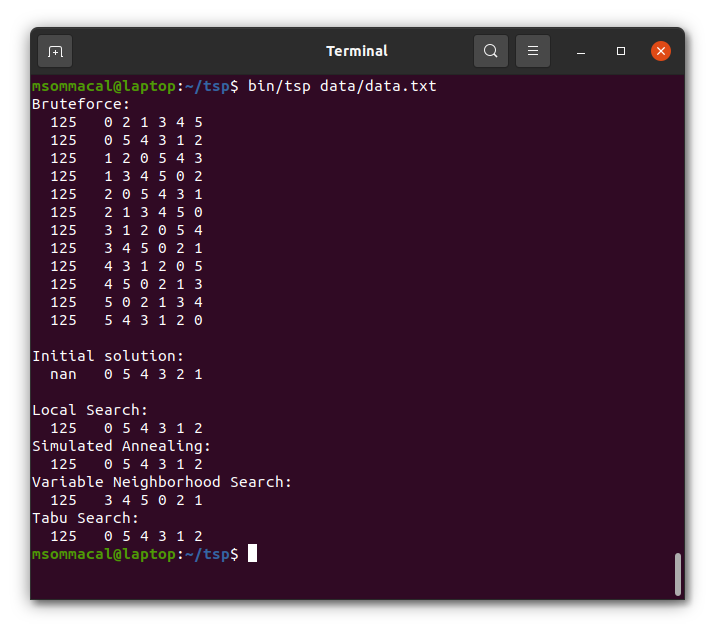
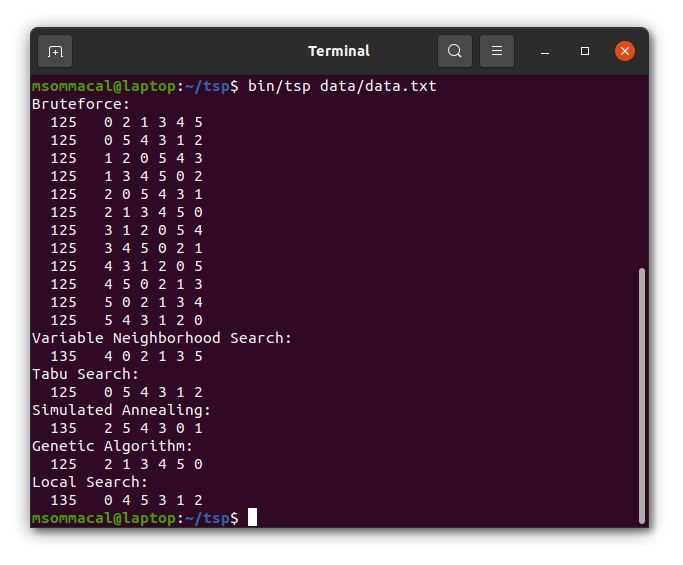
Add arguments for executable

Changed region(s): [[0.0307, 0.0301, 0.9839, 0.9628]]

diff --git a/src/main.cpp b/src/main.cpp
@@ -1,4 +1,5 @@
 #include <algorithm>
+#include <cstring>
 #include <iostream>
 #include <random>
 #include <vector>
@@ -14,52 +15,73 @@ using namespace std;
 
 int main(int argc, char** argv) {
     if (argc == 1) {
-        cerr << "Error: file argument is missing." << endl;
+        cerr << "Error: arguments are missing." << endl;
         exit(1);
     }
 
-    // instantiate a problem
-    Problem p(argv[1]);
-
-    // Bruteforce
-    cout << "Bruteforce:" << endl;
-    vector<Solution> x_optim = Bruteforce().run(p);
-    for (int i=0;i<x_optim.size();i++) {
-        cout << "  ";
-        x_optim.at(i).print();
+    int i = 1;
+    string filename = "";
+    while (i<argc && filename == "") {
+        if (argv[i][0] != '-') {
+            filename = argv[i];
+        }
+        i++;
     }
-    cout << endl;
+
+    if (filename == "") {
+        cerr << "Error: file argument is missing." << endl;
+        exit(2);
+    }
+
+    Problem p(filename);
 
     // generate a random solution
-    cout << "Initial solution:" << endl << "  ";
     Solution x(p.getSize());
-    x.print();
-    cout << endl;
 
-    // Local Search
-    cout << "Local Search:" << endl << "  ";
-    Solution y1 = LocalSearch().run(p, x);
-    y1.print();
+    vector<string> all_methods = {"--bf", "--vns", "--ts", "--sa", "--ga", "--ls"};
+    vector<string> methods;
+    if (argc == 2) {
+        methods = all_methods;
+    } else {
+        for (int j=1;j<argc;j++) {
+            if (j != i-1) {
+                methods.push_back(argv[j]);
+            }
+        }
+    }
 
-    // Simulated Annealing
-    cout << "Simulated Annealing:" << endl << "  ";
-    Solution y2 = SimulatedAnnealing().run(p, x);
-    y2.print();
-
-    // VNS
-    cout << "Variable Neighborhood Search:" << endl << "  ";
-    Solution y3 = VariableNeighborhoodSearch().run(p, x);
-    y3.print();
-
-    // Tabu Search
-    cout << "Tabu Search:" << endl << "  ";
-    Solution y4 = TabuSearch().run(p, x);
-    y4.print();
-
-    // Genetic Algorithm
-    cout << "Genetic Algorithm:" << endl << "  ";
-    Solution y5 = GeneticAlgorithm().run(p, 30, 8);
-    y5.print();
+    for (int i=0;i<methods.size();i++) {
+        if (methods.at(i).compare("--bf") == 0) {
+            cout << "Bruteforce:" << endl;
+            vector<Solution> x_optim = Bruteforce().run(p);
+            for (int i=0;i<x_optim.size();i++) {
+                cout << "  ";
+                x_optim.at(i).print();
+            }
+        } else if (methods.at(i).compare("--vns") == 0) {
+            cout << "Variable Neighborhood Search:" << endl << "  ";
+            Solution y3 = VariableNeighborhoodSearch().run(p, x);
+            y3.print();
+        } else if (methods.at(i).compare("--ls") == 0) {
+            cout << "Local Search:" << endl << "  ";
+            Solution y1 = LocalSearch().run(p, x);
+            y1.print();
+        } else if (methods.at(i).compare("--sa") == 0) {
+            cout << "Simulated Annealing:" << endl << "  ";
+            Solution y2 = SimulatedAnnealing().run(p, x);
+            y2.print();
+        } else if (methods.at(i).compare("--ga") == 0) {
+            cout << "Genetic Algorithm:" << endl << "  ";
+            Solution y5 = GeneticAlgorithm().run(p, 30, 8);
+            y5.print();
+        } else if (methods.at(i).compare("--ts") == 0) {
+            cout << "Tabu Search:" << endl << "  ";
+            Solution y4 = TabuSearch().run(p, x);
+            y4.print();
+        } else {
+            cerr << "Error: " << methods.at(i) << " is not a valid method." << endl;
+        }
+    }
 
     return 0;
 }

diff --git a/README.md b/README.md
@@ -10,6 +10,7 @@ Thus, the following algorithms are implemented:
 - simulated annealing
 - variable neighborhood search.
 - tabu search
+- genetic algorithm
 
 ## Getting Started
 
@@ -45,6 +46,12 @@ To execute the software, you only need to use the following command:
 
 ```
 bin/tsp data/data.txt
+```
+
+You can also execute only some algorithms with special commands:
+
+```
+bin/tsp --bf --vns --ts data/data.txt
 ```
 
 ### Benchmark
